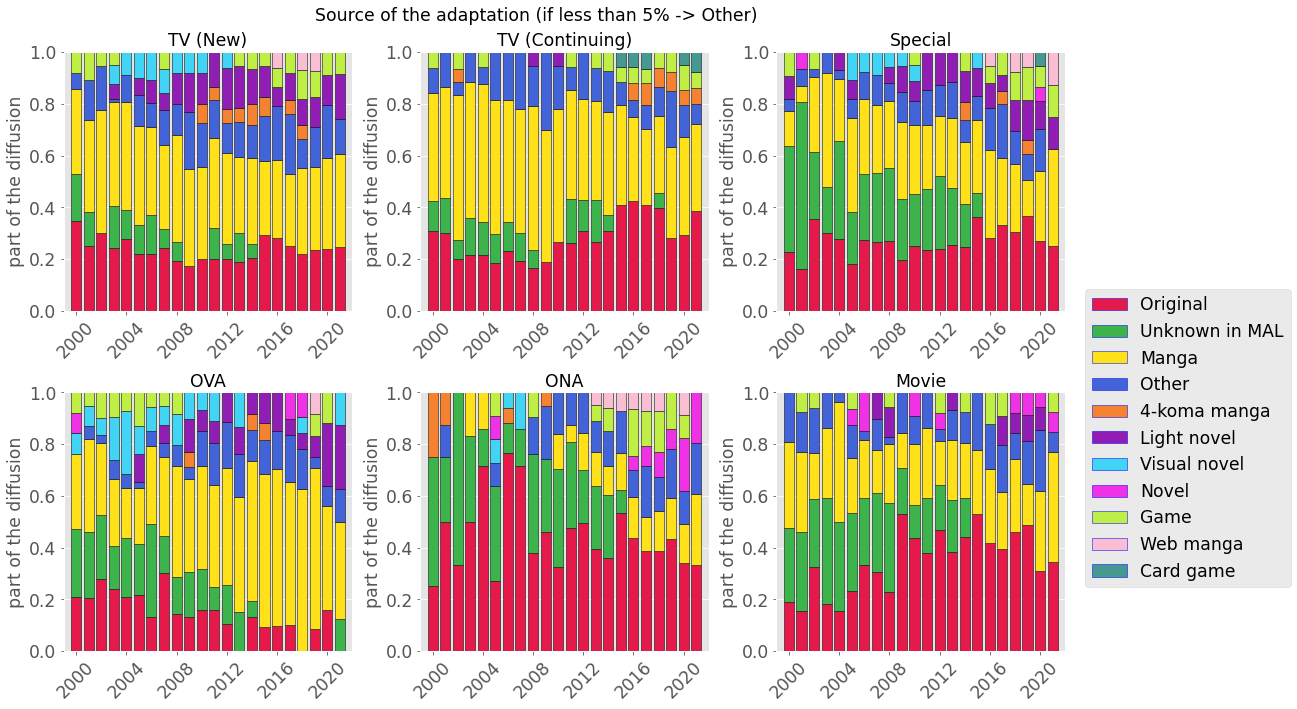
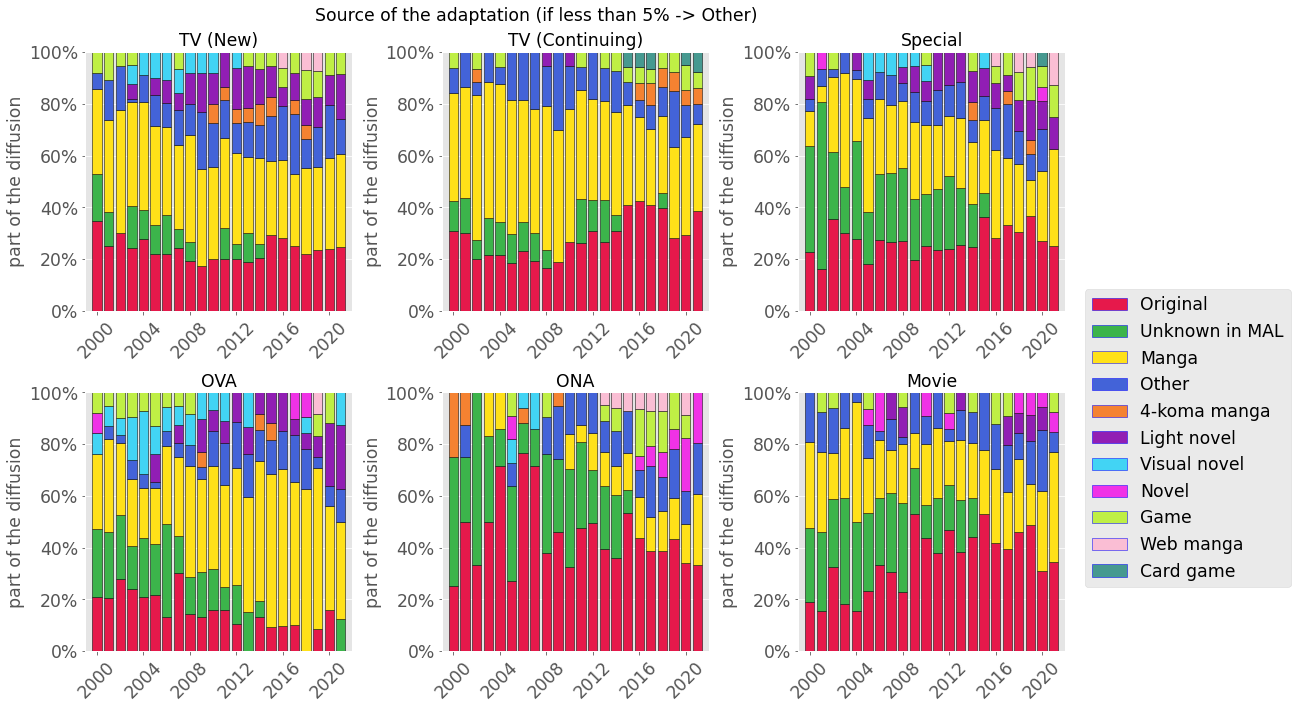
Change graph name

diff --git a/MyAnalizer.py b/MyAnalizer.py
@@ -120,7 +120,7 @@ def production_year(df,min_year,max_year,anitypes,color_list): #To vizualize the
      
     df_year=select_years.sort_values('release-year') #reducing the DataFrame to the season studied
         
-    ymax=stackbarcolor(df_year,anitypes,ax,'',picked_colors,'type','count','Count',max_year,min_year,ymax)
+    ymax=stackbarcolor(df_year,anitypes,ax,'',picked_colors,'type','count','Number of anime aired',max_year,min_year,ymax)
         
     ax.axis(ymax=ymax+5) #And then I set the limit
     
@@ -138,8 +138,7 @@ def episode(df,min_year,max_year,anitype,max_shown): #This function is showing t
     ax=sb.violinplot(x='release-year',y='episodes',data=select_year,bw=.05,cut=0, scale='width',inner='quartile',orientation='h') 
     ax.tick_params('x',labelrotation=45, labelsize=font)
     ax.tick_params('y', labelsize=font)
-    ax.set_ylabel('length',fontsize=font)
-    ax.set_ylabel('diffusion',fontsize=font)
+    ax.set_ylabel('Number of episodes per anime',fontsize=font)
     ax.xaxis.label.set_size(font)
     ax.set(ylim=(0,max_shown))
     ax.set_title('Repartion of anime length : '+ anitype,fontsize=font)
@@ -188,7 +187,7 @@ def source(df,min_year,max_year,anitypes,color_list,thresold):
             df_type=select_years[select_years['type']==anime_type].sort_values('release-year') #reducing the DataFrame to the season studied I need the year to be at the right order for the stacking
             print('--------------'+anime_type)
             
-            stackbarcolor(df_type,sources,ax,anime_type,picked_colors,'source-material','percent','part of the diffusion',max_year,min_year)
+            stackbarcolor(df_type,sources,ax,anime_type,picked_colors,'source-material','percent','Part of the diffusion',max_year,min_year)
             for ax in axes:
                 ax.set(ylim=(0,1))
                 ax.yaxis.set_major_formatter(PercentFormatter(xmax=1, decimals=0, symbol='%', is_latex=False))
@@ -199,7 +198,7 @@ def source(df,min_year,max_year,anitypes,color_list,thresold):
         anime_type=anitypes[0]
         print('--------------'+anime_type)
           
-        stackbarcolor(df_type,sources,ax,anime_type,picked_colors,'source-material','percent','part of the diffusion',max_year,min_year)
+        stackbarcolor(df_type,sources,ax,anime_type,picked_colors,'source-material','percent','Part of the diffusion',max_year,min_year)
         ax.set(ylim=(0,1))
         ax.yaxis.set_major_formatter(PercentFormatter(xmax=1, decimals=0, symbol='%', is_latex=False))
     
